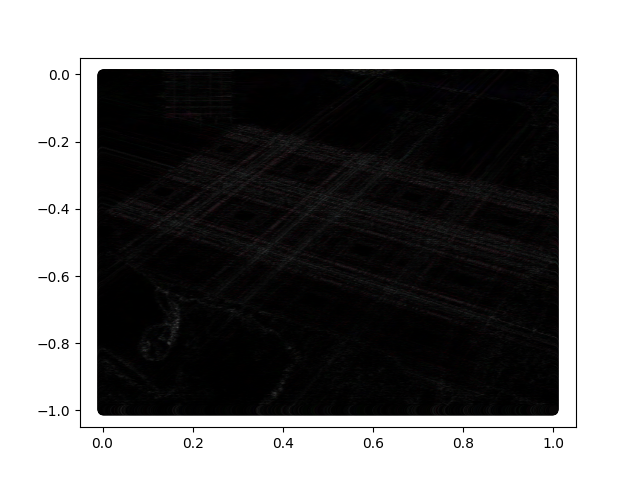
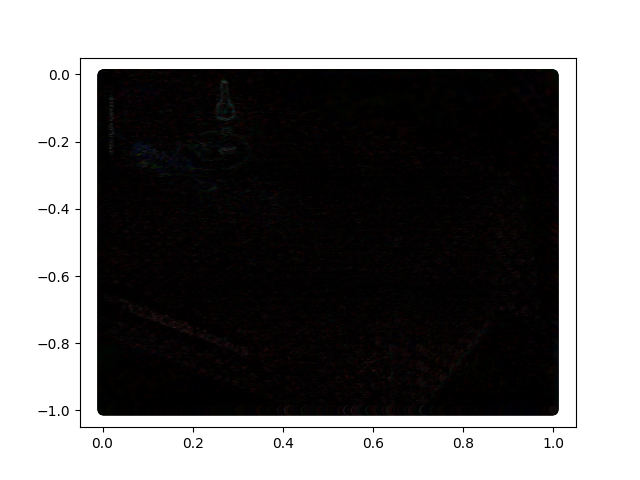
updates

diff --git a/train.py b/train.py
@@ -23,16 +23,16 @@ from datetime import datetime
 
 if __name__ == '__main__':
     
-    total_iters = 30000
+    total_iters = 300000
     fine_tune_iters = 5000    
-    total_primitives = 100
-    primitives_per_update = 10
+    total_primitives = 50000
+    primitives_per_update = 50
     iters_per_primitive = int((total_iters-fine_tune_iters) / (total_primitives/primitives_per_update))
     start_freq = 20
     end_freq = 512
 
     model_type = HybridPrimitives
-    img_name = "tablecloth.jpg"
+    img_name = "truck.jpg"
 
     device = "cuda"
     torch.random.manual_seed(42)
@@ -115,8 +115,8 @@ if __name__ == '__main__':
                 if(i>0):
                     residuals -= model(x[mask])
                 model.prune_primitives(1./500.)
-                n_gaussians = primitives_per_update
-                n_waves = 0
+                #n_gaussians = primitives_per_update
+                #n_waves = 0
                 n_gaussians = 0
                 n_waves = primitives_per_update
                 #n_gaussians = primitives_per_update-n_waves
